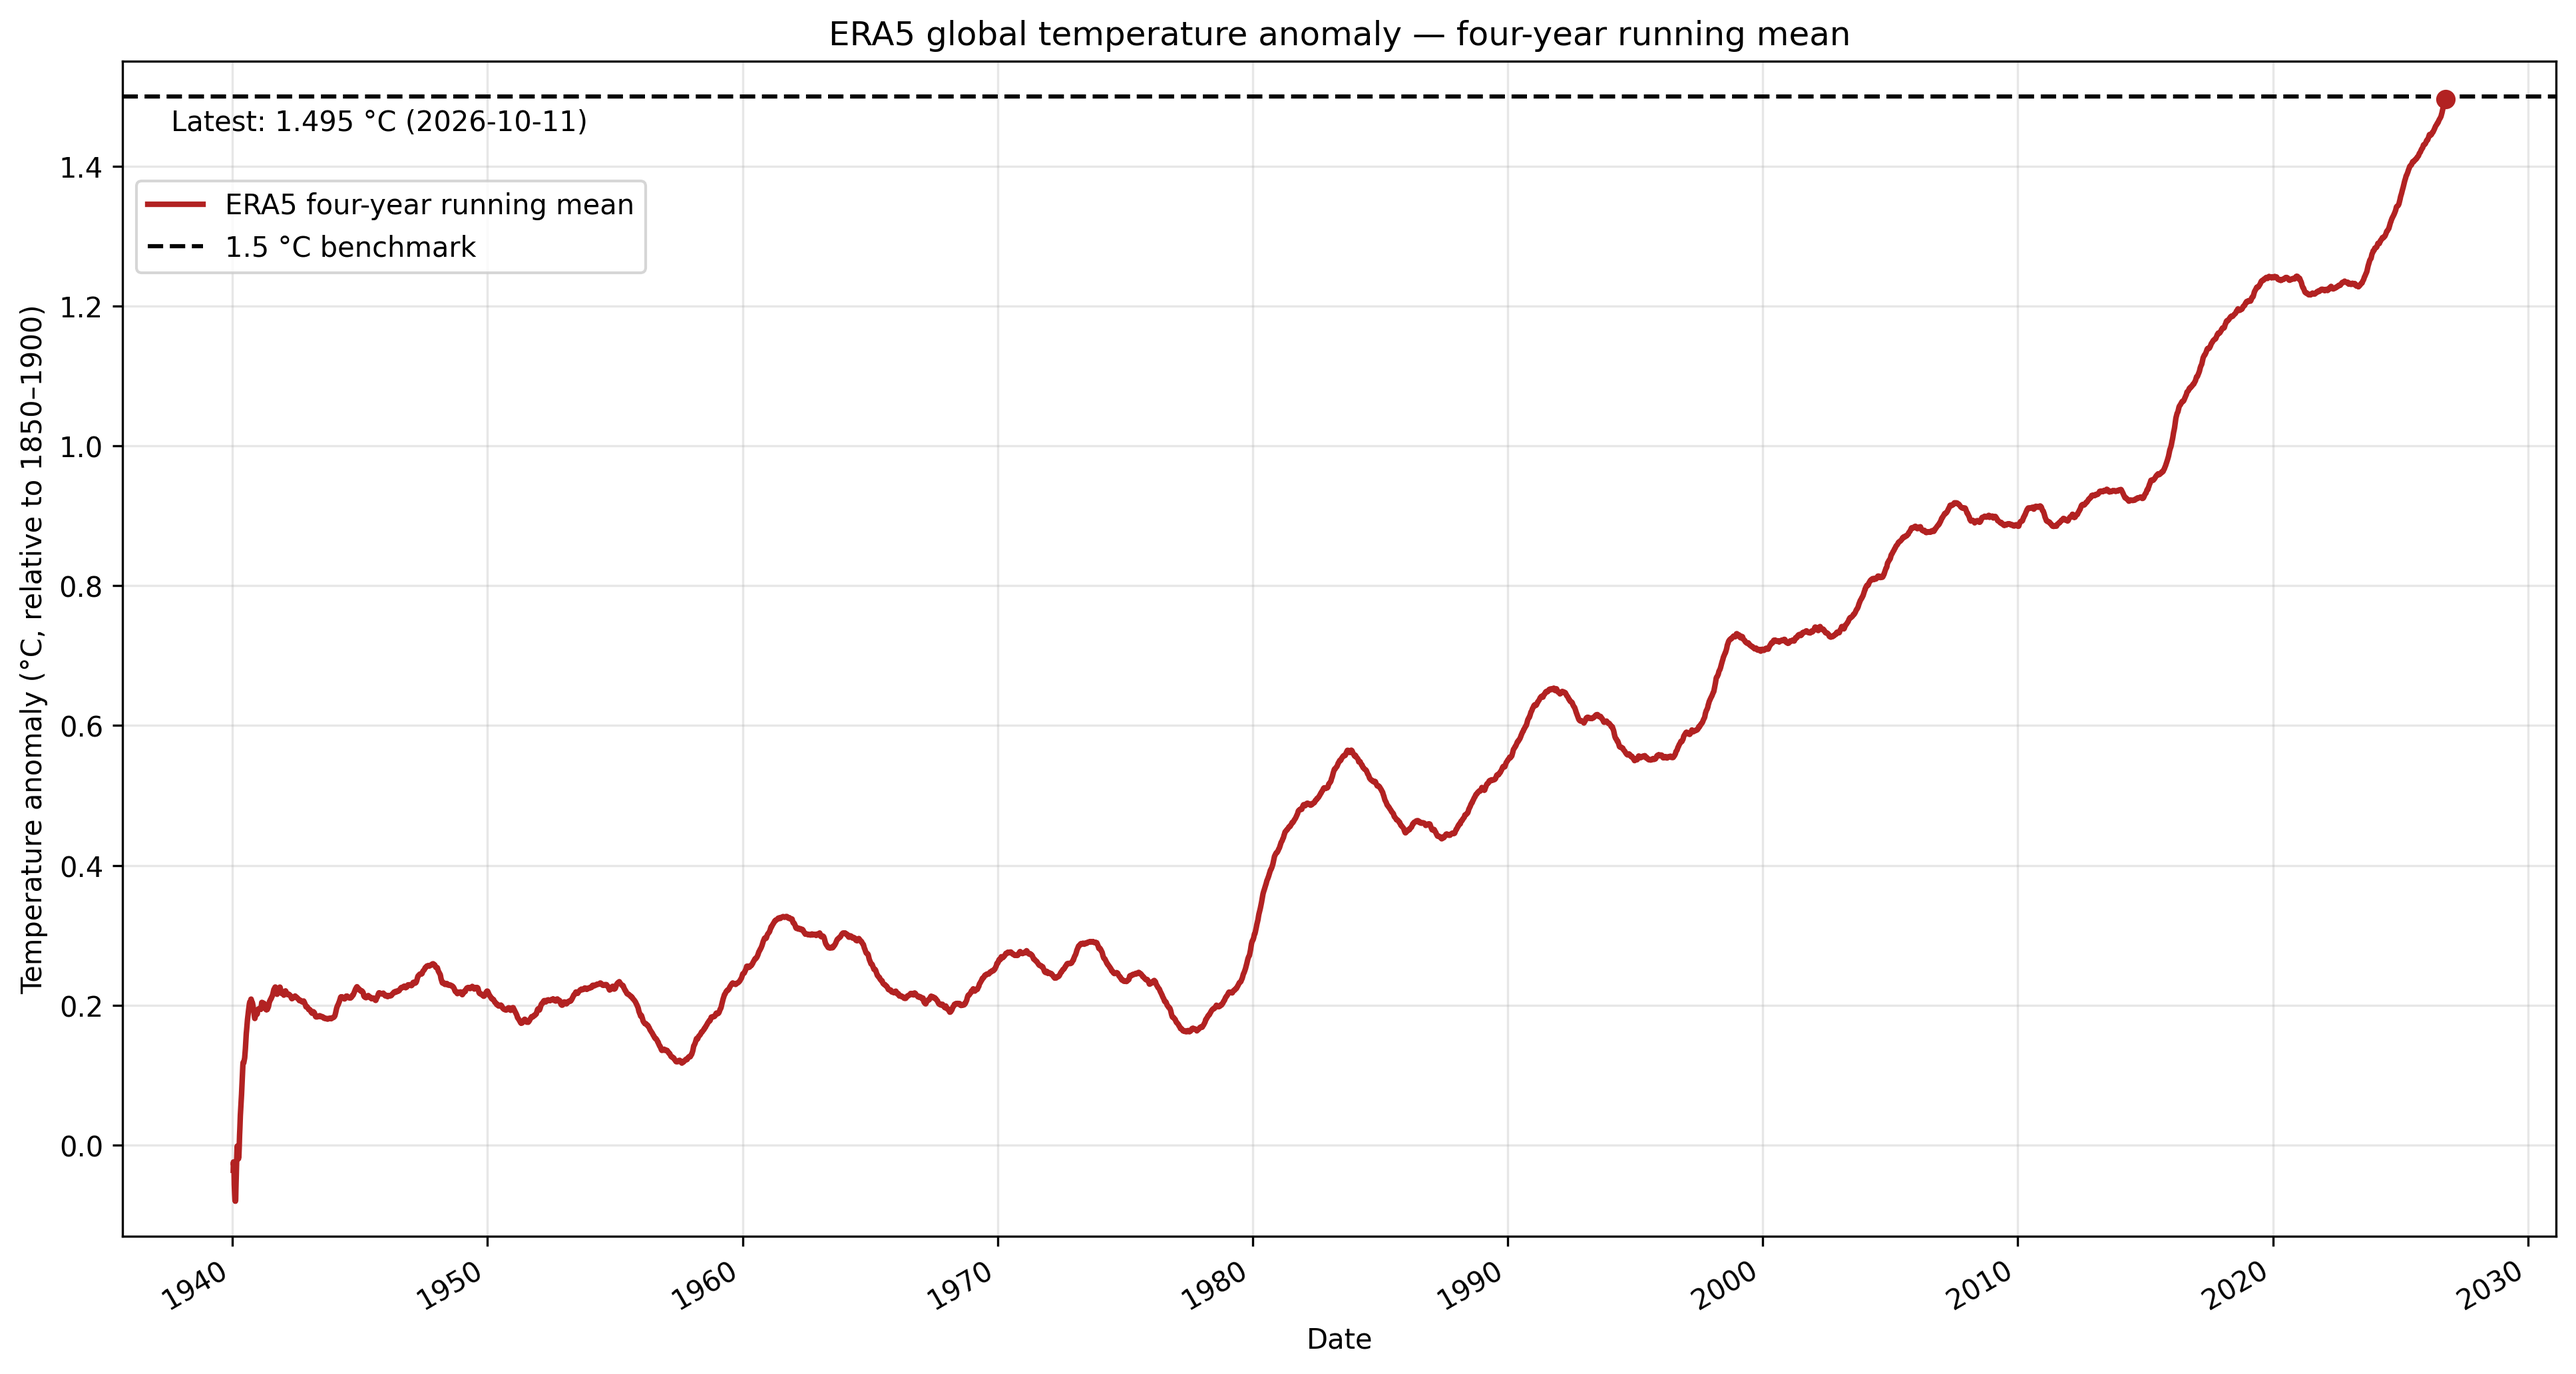
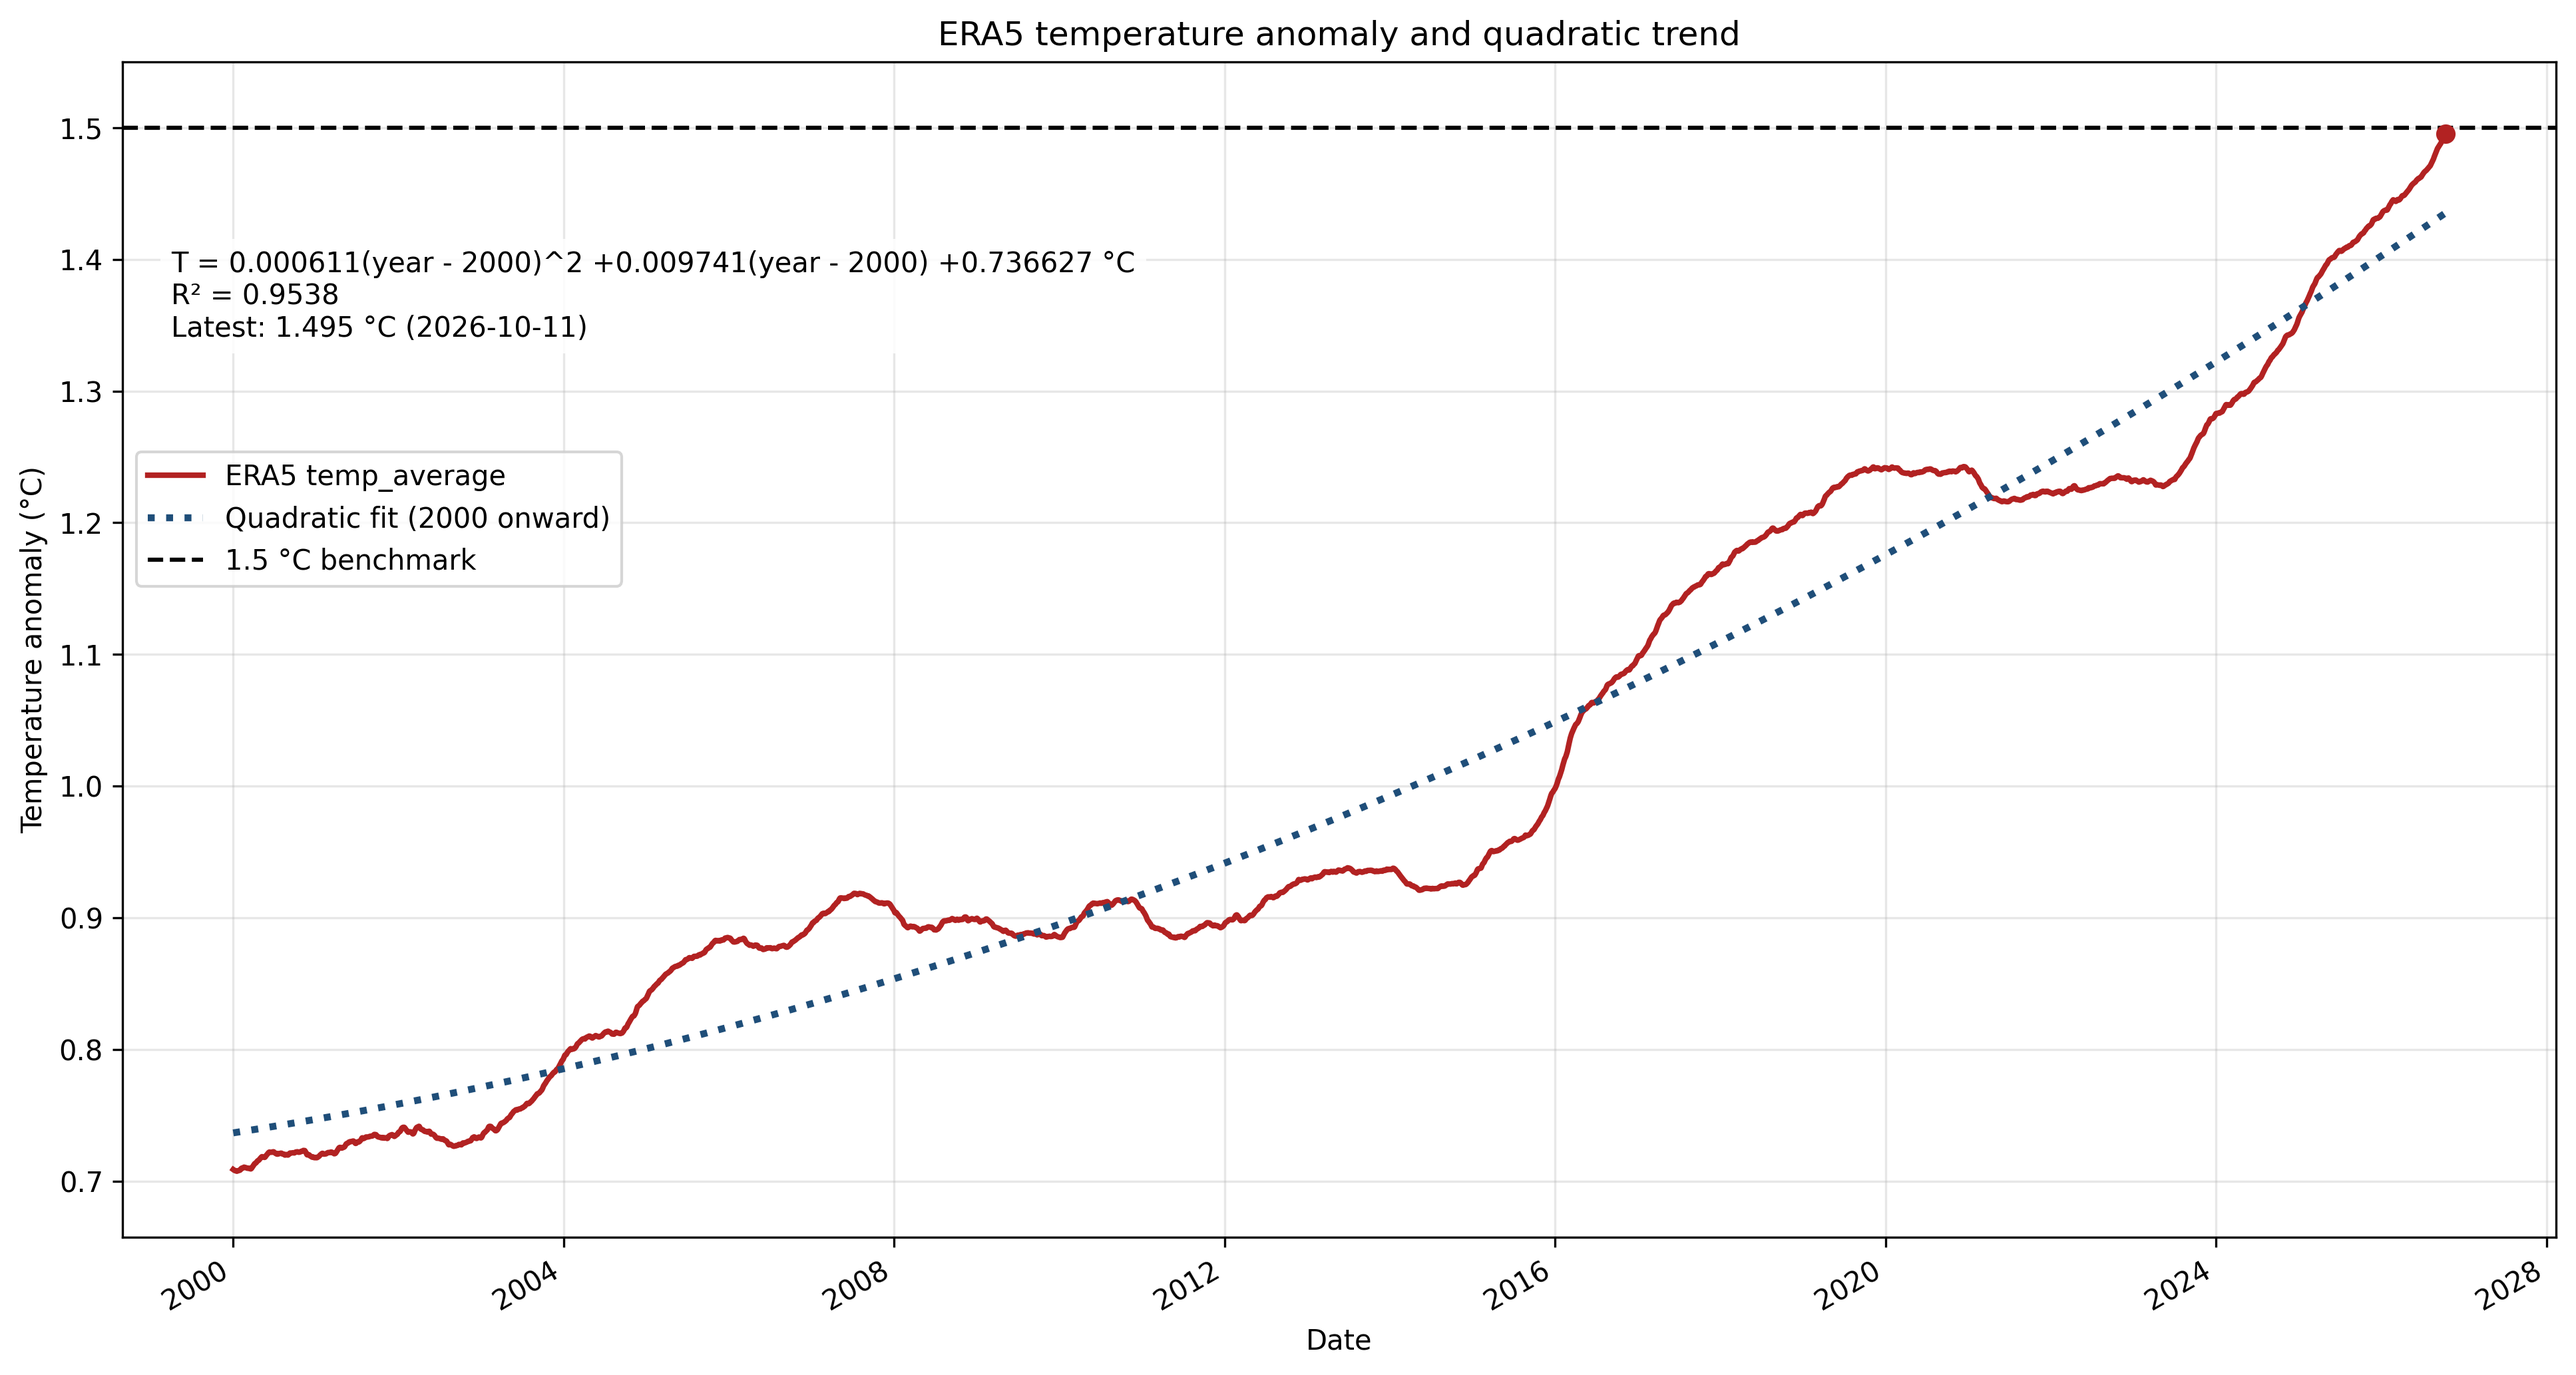
v = "5K17" # _48_era5_temp_average.png

diff --git a/main.py b/main.py
@@ -1,5 +1,5 @@
 # main.py
-v = "5K16" # _48_era5_temp_average.png
+v = "5K17" # _48_era5_temp_average.png
 # https://github.com/Boettcher1960/5_CO2_EEI_T
 # ocean stratification https://bsky.app/profile/thomas-boettcher.bsky.social/post/3mj7zx7fzsc26
 # https://drtomharris.substack.com/p/the-great-decoupling-how-ocean-stratification
@@ -421,7 +421,7 @@ def save_png(fig, header_parameter):
 
 
 def visualize_era5_temp_average():
-    """Plot the ERA5 four-year running mean against the 1.5 °C benchmark."""
+    """Plot the ERA5 running mean and its post-2000 quadratic trend."""
     input_path = "work/_48_era5_in.csv"
     output_path = "work/_48_era5_temp_average.png"
     data = pd.read_csv(input_path)
@@ -439,15 +439,42 @@ def visualize_era5_temp_average():
     if data.empty:
         raise ValueError(f"{input_path} has no valid date/temp_average rows")
 
-    latest = data.iloc[-1]
+    plot_data = data.loc[data["date"] >= "2000-01-01"].copy()
+    if len(plot_data) < 3:
+        raise ValueError("At least three valid observations since 2000 are required for a quadratic fit")
+
+    plot_data["decimal_year"] = (
+        plot_data["date"].dt.year
+        + (plot_data["date"].dt.dayofyear - 1)
+        / np.where(plot_data["date"].dt.is_leap_year, 366, 365)
+    )
+    x = plot_data["decimal_year"] - 2000
+    coefficients = np.polyfit(x, plot_data["temp_average"], 2)
+    trend = np.polyval(coefficients, x)
+    residual_sum_squares = np.sum((plot_data["temp_average"] - trend) ** 2)
+    total_sum_squares = np.sum(
+        (plot_data["temp_average"] - plot_data["temp_average"].mean()) ** 2
+    )
+    r_squared = 1 - residual_sum_squares / total_sum_squares
+    plot_data["quadratic_fit"] = trend
+
+    latest = plot_data.iloc[-1]
     benchmark = 1.5
     fig, ax = plt.subplots(figsize=(13, 7))
     ax.plot(
-        data["date"],
-        data["temp_average"],
+        plot_data["date"],
+        plot_data["temp_average"],
         color="#b22222",
         linewidth=2,
-        label="ERA5 four-year running mean",
+        label="ERA5 temp_average",
+    )
+    ax.plot(
+        plot_data["date"],
+        plot_data["quadratic_fit"],
+        color="#1f4e79",
+        linestyle=":",
+        linewidth=2.5,
+        label="Quadratic fit (2000 onward)",
     )
     ax.axhline(
         benchmark,
@@ -458,24 +485,35 @@ def visualize_era5_temp_average():
     )
     ax.scatter(latest["date"], latest["temp_average"], color="#b22222", zorder=3)
     ax.text(
-        0.02,
-        0.96,
-        f"Latest: {latest['temp_average']:.3f} °C ({latest['date']:%Y-%m-%d})",
+        0.02, 0.84,
+        (
+            f"T = {coefficients[0]:.6f}(year - 2000)^2 "
+            f"{coefficients[1]:+.6f}(year - 2000) {coefficients[2]:+.6f} °C\n"
+            f"R² = {r_squared:.4f}\n"
+            f"Latest: {latest['temp_average']:.3f} °C ({latest['date']:%Y-%m-%d})"
+        ),
         transform=ax.transAxes,
         va="top",
+        bbox={"facecolor": "white", "alpha": 0.85, "edgecolor": "none"},
     )
-    ax.set_title("ERA5 global temperature anomaly — four-year running mean")
+    ax.set_title("ERA5 temperature anomaly and quadratic trend")
     ax.set_xlabel("Date")
-    ax.set_ylabel("Temperature anomaly (°C, relative to 1850–1900)")
+    ax.set_ylabel("Temperature anomaly (°C)")
     ax.set_ylim(
-        min(float(data["temp_average"].min()), benchmark) - 0.05,
-        max(float(data["temp_average"].max()), benchmark) + 0.05,
+        min(float(plot_data["temp_average"].min()), benchmark) - 0.05,
+        max(float(plot_data["temp_average"].max()), benchmark) + 0.05,
     )
     ax.grid(True, alpha=0.3)
-    ax.legend(loc="upper left", bbox_to_anchor=(0, 0.91))
+    ax.legend(loc="upper left", bbox_to_anchor=(0, 0.68))
     fig.autofmt_xdate()
     fig.tight_layout()
     fig.savefig(output_path, dpi=300, bbox_inches="tight")
+    print(
+        "Quadratic fit since 2000: "
+        f"T = {coefficients[0]:.9f}(year - 2000)^2 "
+        f"{coefficients[1]:+.9f}(year - 2000) {coefficients[2]:+.9f}; "
+        f"R² = {r_squared:.6f}"
+    )
     print(f"Saved ERA5 temperature visualization to {output_path}")
     plt.show()
     plt.close(fig)
@@ -569,4 +607,3 @@ if __name__ == "__main__":
         visualize_era5_temp_average()
     else:
         main()
-

diff --git a/models.py b/models.py
@@ -906,3 +906,9 @@ def T_78(t):
 # chat05 visualize work/_48_era5_in.csv column temp_average like
 # https://climatecasino.substack.com/p/dear-everyone-150c-is-yesterdays
 # Run: python3 main.py --visualize-era5-temp-average
+#
+# Fit: T = 0.000610555(year − 2000)² + 0.009740682(year − 2000) + 0.736626732
+# R²: 0.953830
+# make quadratic equation and visualize work/_48_era5_in.csv column temp_average like
+# https://climatecasino.substack.com/p/dear-everyone-150c-is-yesterdays
+# Fit the quadratic trend from 2000 onward and show its equation on the plot.
